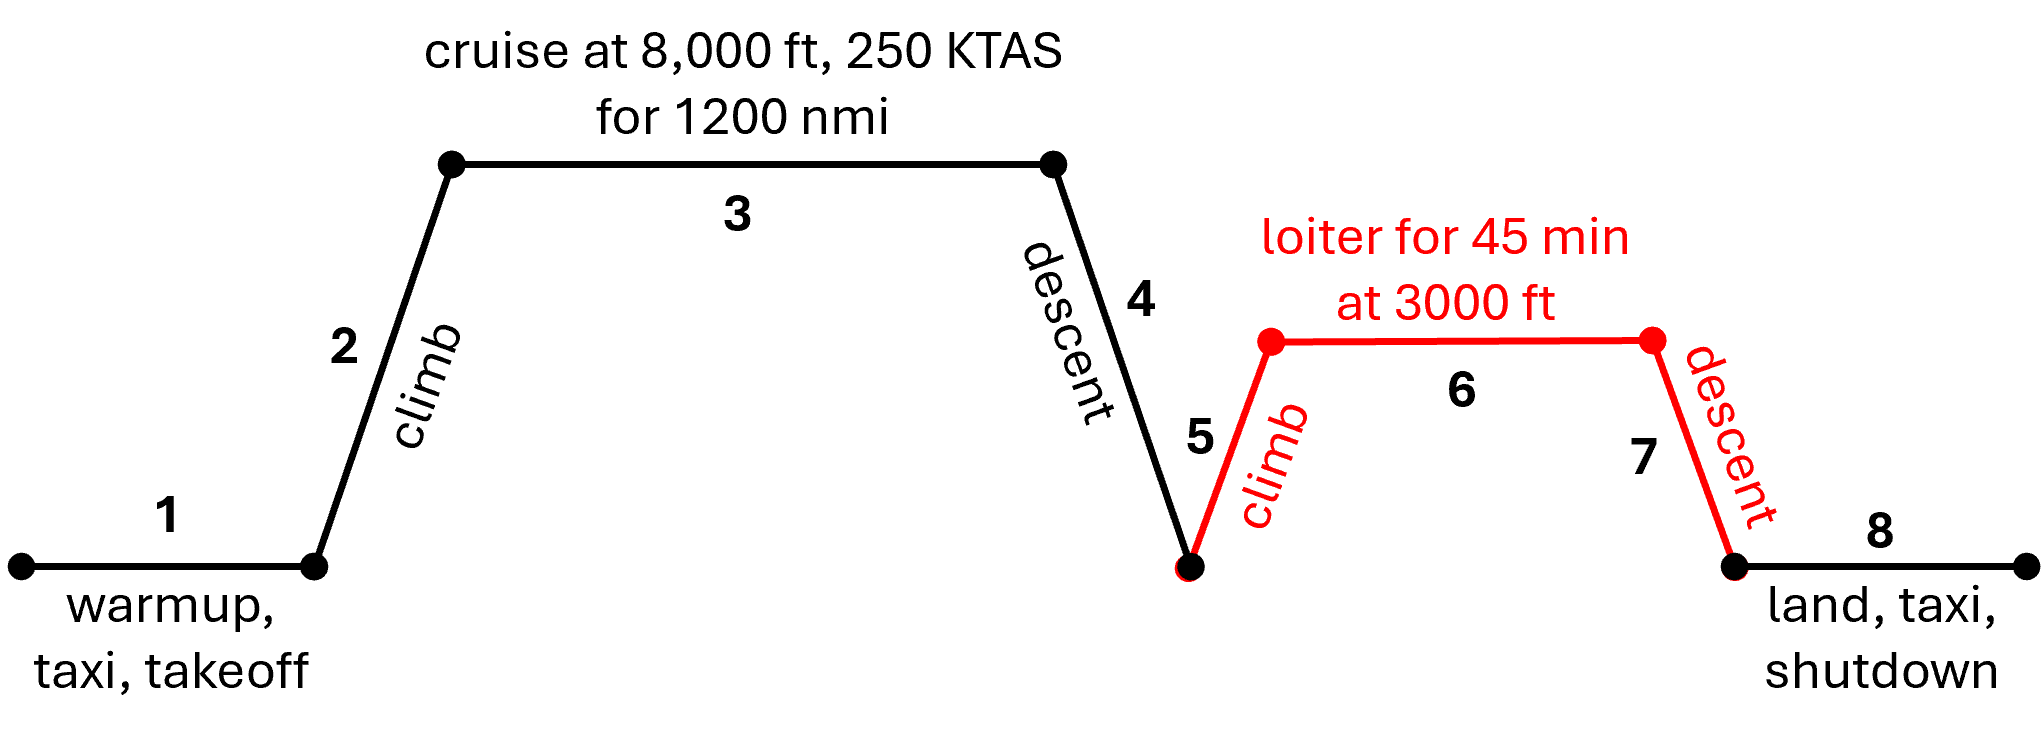
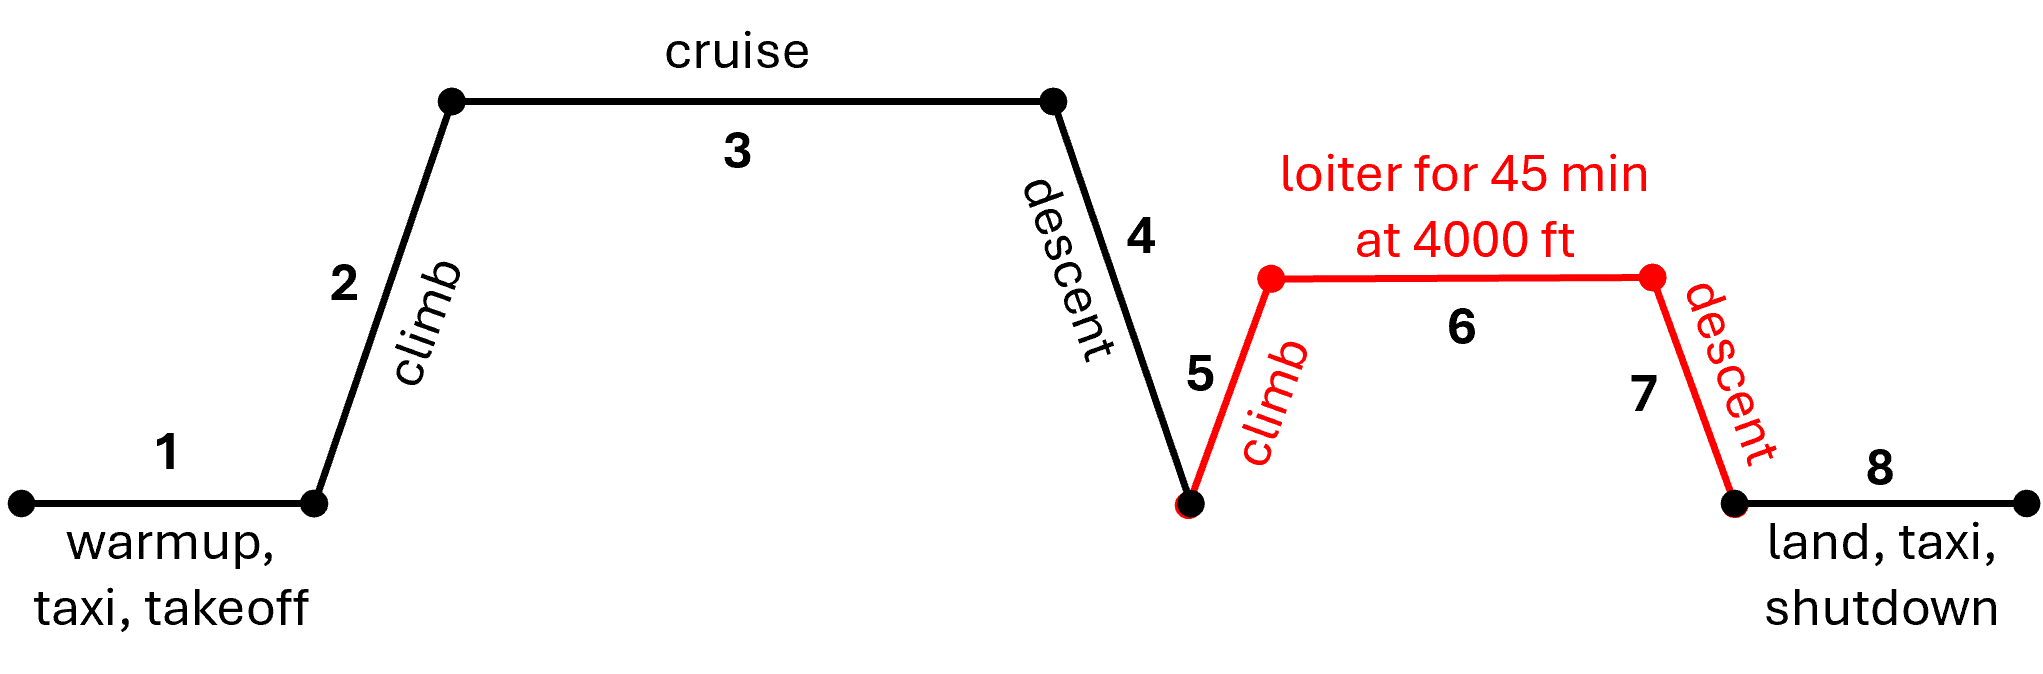
updated mission profile

Changed region(s): [[0.0, 0.0312, 1.0, 0.8412], [0.0, 0.8724, 0.1542, 0.9347], [0.8634, 0.8724, 0.9868, 0.9347]]

diff --git a/book/example_aircraft.md b/book/example_aircraft.md
@@ -15,13 +15,13 @@ Requirement | Specification
 ------- | :-------:
 Crew | 1 pilot (200 lbs)                              
 Payload | 5 passengers (200 lbs each, including baggage) 
-Takeoff and Landing | Maximum 2000 ft (sealevel, standard conditions)
+Takeoff and Landing | $\leq$ 2000 ft over 50' obstacle (sealevel, standard conditions)
 Powerplant | Twin piston engines with propellers
 Pressurization | None
 Certification | 14 CFR Part 23
 Range | 1200 nautical miles
 Cruise altitude | 8,000 ft
-Cruise speed | 250 KTAS
+Cruise speed | $\geq$ 200 KTAS
 </div>
 
 **Mission Profile**:
